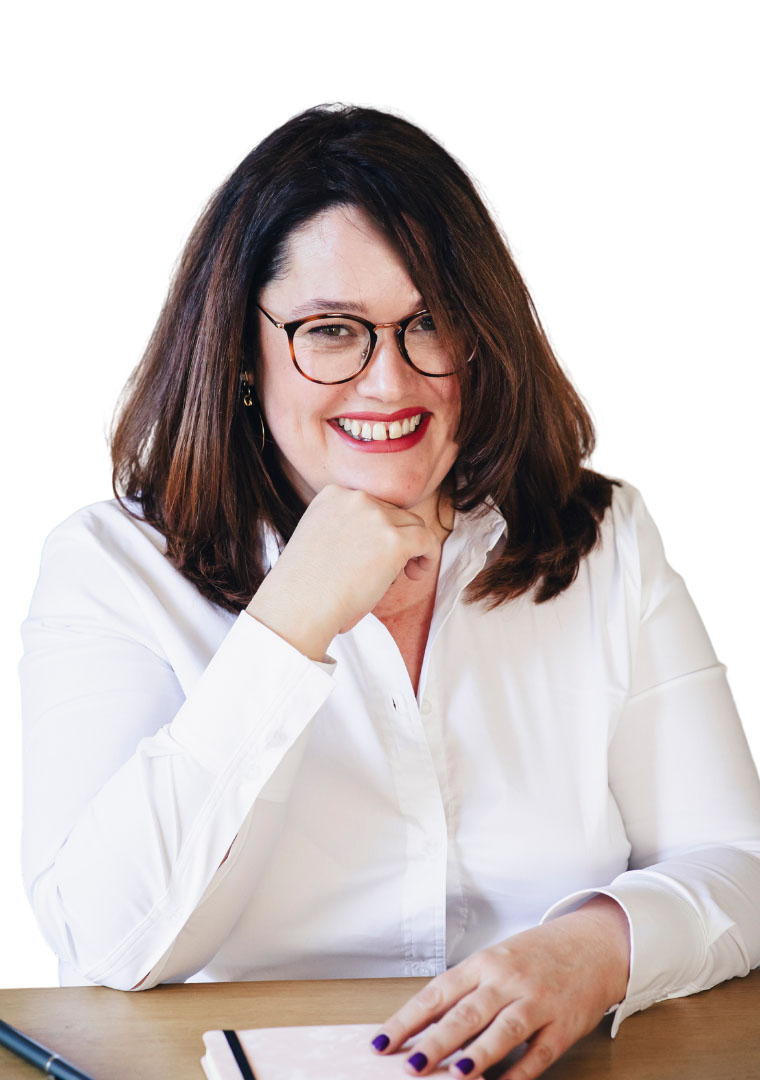
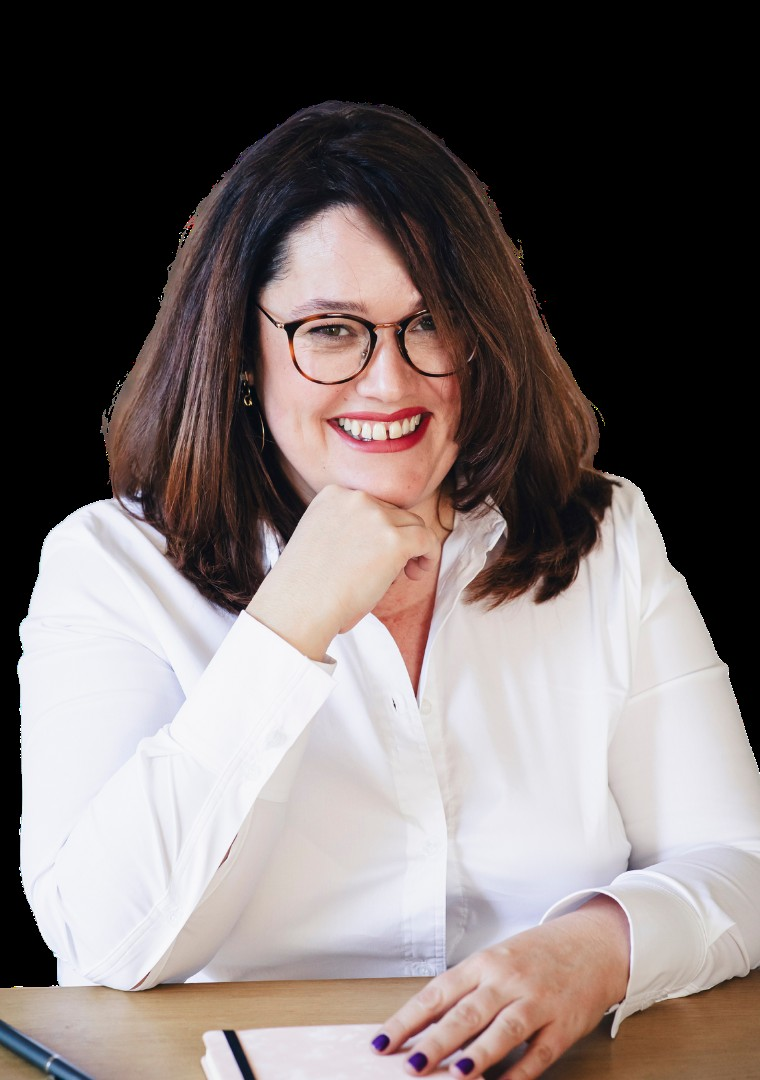
google tag manager

diff --git a/src/pages/Accueil/index.jsx b/src/pages/Accueil/index.jsx
@@ -12,7 +12,7 @@ import Toolbox from '../../components/ToolBox';
 import IconCard from '../../components/IconCard'
 import { faPlay, faBriefcase, faPenRuler, faBuilding  } from "@fortawesome/free-solid-svg-icons";
 import imgBenefit from "../../assets/imgArchitecte.jpg";
-import imgPortrait from '../../assets/imgPortrait.jpg';
+import imgPortrait from '../../assets/imgPortrait.png';
 import ServiceDetail from "../../components/ServiceDetail";
 
 
@@ -113,7 +113,6 @@ function Accueil() {
 
   return (
     <div className='main'>
-      <Maintenance />
       <FreebiePopup />
       <Banner
         pageTitle={pageTitle}
@@ -126,8 +125,10 @@ function Accueil() {
 
       <section className='home__cible'>
         <h2>Vous êtes artisan, entrepreneur ou dirigeant de PME ?</h2>
+        <div className='home__cible-text'>
         <p>Vous gérez un quotidien chargé, souvent dans l’urgence. Et votre site web ne vous aide pas autant qu’il le pourrait.</p>
         <p>Je conçois des sites web et des outils digitaux qui s’adaptent à votre façon de travailler pour vous faire <strong>gagner du temps</strong>, <strong>automatiser les tâches répétitives</strong> et <strong>valoriser votre savoir-faire</strong>.</p>
+        </div>
         <div className="icon-card__container">
           {cards.map((card, idx) => (
             <IconCard
@@ -161,16 +162,17 @@ function Accueil() {
       <ServiceDetail sections={benefitsSection} />
 
       <section className='home'>
-        <img src={imgPortrait} alt="Aurélie DEMETRIO - L'Agence Digitale" />
-        <div className='home__apropos'>
-          <h2>A propos</h2>
-          <p>Je suis développeuse web spécialisée dans le secteur du bâtiment et de l’immobilier, avec 20 ans d'expérience sur le terrain.</p>
-          <p>Mon objectif : créer des sites sur mesure qui <span className='text-color'><strong>mettent en valeur votre expertise, simplifient vos processus, et boostent votre activité.</strong></span></p>
-          <p>Chaque projet est unique, tout comme votre entreprise. J’écoute vos besoins pour concevoir des formulaires, pages de vente, et portfolios personnalisés, qui vous aideront à <span className='text-color'><strong>attirer vos clients idéaux</strong></span> et à faire évoluer votre business.</p>
-          <p>Offrez à votre savoir faire la visibilité qu'il mérite !</p>
-          <Link to="/A-propos/#apropos__anchor"><Button className="button" text="En savoir plus" /></Link>
-        </div>
-      </section>
+  <img src={imgPortrait} alt="Aurélie DEMETRIO - L'Agence Digitale" />
+  <div className='home__apropos'>
+    <h2>À propos</h2>
+    <p>Avant de devenir développeuse web, j’ai passé 20 ans à gérer des entreprises du bâtiment : gestion RH, suivi de chantiers, plannings, matériel, appels d’offres… Je connais vos contraintes et vos priorités de l’intérieur.</p>
+    <p>Aujourd’hui, j’allie cette expérience terrain à mon expertise digitale pour vous accompagner dans votre transformation numérique.</p>
+    <p>Je crée ou transforme votre site en un outil utile qui <span className='text-color'><strong>travaille pour vous</strong></span> : formulaires intelligents, demandes d’intervention, synchronisation avec Google Calendar, pages de vente, automatisation des tâches répétitives…</p>
+    <p>Mon objectif : <span className='text-color'><strong>vous faire gagner du temps, fluidifier votre organisation, et valoriser votre savoir-faire en ligne</strong></span>.</p>
+    <Link to="/A-propos/#apropos__anchor"><Button className="button" text="En savoir plus" /></Link>
+  </div>
+</section>
+
 
       <Gallery projects={projetData} />
 

diff --git a/src/pages/Flyer/index.jsx b/src/pages/Flyer/index.jsx
@@ -6,14 +6,18 @@ import ServiceDetail from "../../components/ServiceDetail";
 import Testimonies from "../../components/Testimonies";
 import Faq from "../../components/Faq";
 import { faPlay, faCircleQuestion } from "@fortawesome/free-solid-svg-icons";
-import imgBenefit from "../../assets/imgArchitecte.jpg";
+import imgArchitect from "../../assets/imgArchitecte.jpg";
+import imgBatiment from "../../assets/imgBatiment.jpg";
+import imgAutomatisation from "../../assets/imgBanner.jpg";
+import imgBenefit2 from "../../assets/img_automatisation_pme.jpg";
+import imgBenefit1 from "../../assets/imgBannerResource.jpeg";
 
 const sectionsFlyer = [
   {
     title: "Pourquoi automatiser votre activité et transformer votre site peut changer votre quotidien",
     subtitle: null,
     icon: faPlay,
-    image: imgBenefit,
+    image: imgBenefit1,
     items: [
       "Gagner du temps",
       "Réduire les tâches répétitives",
@@ -24,7 +28,7 @@ const sectionsFlyer = [
     title: "Solutions concrètes pour optimiser votre activité",
     subtitle: null,
     icon: faPlay,
-    image: imgBenefit,
+    image: imgBenefit2,
     items: [
       "Automatisation – Je relie vos outils métier (agenda, mails, formulaires, CRM…) pour centraliser les demandes, automatiser les tâches répétitives, et gagner un temps précieux.",
       "Connexion de vos outils",
@@ -39,7 +43,7 @@ const casConcretsFlyer = [
     title: "Un formulaire connecté pour les demandes d’intervention",
     subtitle: null,
     icon: faPlay,
-    image: imgBenefit,
+    image: imgBatiment,
     items: [
       "Un artisan gagne plusieurs heures par semaine grâce à un formulaire intégré à son site.",
       "Les demandes arrivent classées et complètes, même quand il est sur chantier ou en dehors des horaires.",
@@ -50,7 +54,7 @@ const casConcretsFlyer = [
     title: "Prise de rendez-vous automatisée pour une architecte",
     subtitle: null,
     icon: faPlay,
-    image: imgBenefit,
+    image: imgArchitect,
     items: [
       "Une architecte propose directement ses créneaux disponibles via son site, connectés à son agenda Google.",
       "Fini les échanges de mails interminables.",
@@ -61,7 +65,7 @@ const casConcretsFlyer = [
     title: "Génération automatique de devis et de dossiers de primes",
     subtitle: null,
     icon: faPlay,
-    image: imgBenefit,
+    image: imgAutomatisation,
     items: [
       "Un installateur de PAC remplit un formulaire simplifié avec son client.",
       "Le devis et le dossier de demande de prime sont générés automatiquement.",
@@ -179,7 +183,7 @@ function Flyer() {
   const pageTitle = "Un site web utile, qui travaille pour vous.";
   const bannerText =
     "Sites web connectés & automatisations pour vous faire gagner du temps, simplifier votre gestion et réduire les tâches répétitives.";
-  const bannerImg = require("../../assets/img_coaching_creation_site_web.jpg");
+  const bannerImg = require("../../assets/imgBanner_blog_aurelie_demetrio_developpeuse_automatisation.jpg");
 
   return (
     <div className="main">
@@ -197,7 +201,7 @@ function Flyer() {
           },
         ]}
       />
-        <div className="pagevente__container">
+        <div className="pagevente__container flyer__intro">
   <h2>Un site web utile, qui travaille pour vous ?</h2>
   <p className="section-text">
     Vous avez découvert mon flyer ? Merci pour votre intérêt !

diff --git a/public/index.html b/public/index.html
@@ -27,15 +27,15 @@
     <!-- FontAwesome (CDN) -->
     <link rel="stylesheet" href="https://use.fontawesome.com/releases/v5.15.4/css/all.css" />
 
-    <!-- Google Analytics -->
-    <script async src="https://www.googletagmanager.com/gtag/js?id=G-J0LEQLYWJ8"></script>
-    <script>
-      window.dataLayer = window.dataLayer || [];
-      function gtag(){dataLayer.push(arguments);}
-      gtag('js', new Date());
-      gtag('config', 'G-J0LEQLYWJ8');
-    </script>
+<!-- Google Tag Manager -->
+<script>(function(w,d,s,l,i){w[l]=w[l]||[];w[l].push({'gtm.start':
+new Date().getTime(),event:'gtm.js'});var f=d.getElementsByTagName(s)[0],
+j=d.createElement(s),dl=l!='dataLayer'?'&l='+l:'';j.async=true;j.src=
+'https://www.googletagmanager.com/gtm.js?id='+i+dl;f.parentNode.insertBefore(j,f);
+})(window,document,'script','dataLayer','GTM-MVQG47SP');</script>
+<!-- End Google Tag Manager -->
 
+    
     <!-- Tally embed -->
     <script async src="https://tally.so/widgets/embed.js"></script>
 
@@ -65,6 +65,12 @@
   </head>
 
   <body>
+<!-- Google Tag Manager (noscript) -->
+<noscript><iframe src="https://www.googletagmanager.com/ns.html?id=GTM-MVQG47SP"
+height="0" width="0" style="display:none;visibility:hidden"></iframe></noscript>
+<!-- End Google Tag Manager (noscript) -->>
+
+
     <div id="root"></div>
   </body>
 </html>

diff --git a/src/styles/pages/_article.scss b/src/styles/pages/_article.scss
@@ -6,7 +6,7 @@
   flex-direction: column;
   h3{
     margin: 0 0 20px 0;
-    color: $black;
+    color: $pink;
     font-size: 18px;
   }
   p{
@@ -32,6 +32,12 @@
 .wp-block-heading{
   color: $black;
   justify-content: flex-start;
+    font-size: 1.8rem;
+  margin: 20px 0 50px 50px;
+
+  @include mobile{
+    font-size: 1.5rem;
+  }
 }
 
 .wp-block-list{
@@ -75,15 +81,7 @@
     opacity: 0.8;
   }
 }
-.wp-block-heading {
-  font-size: 1.8rem;
-  margin-bottom: 2rem;
-  color: $darkgreen;
 
-  @include mobile{
-    font-size: 1.5rem;
-  }
-}
 .wp-block-video {
   video {
     //width: 100%;
@@ -153,6 +151,9 @@
   border-radius: 8px;
   margin: 2rem 0;
   text-align: center;
+  display: flex;
+  flex-direction: column;
+  align-items: center;
 
   &-title{
     color: $darkviolet;
@@ -173,7 +174,7 @@
     text-decoration: none;
     font-weight: bold;
     transition: background-color 0.3s ease;
-    width: 80%;
+    width: 200px;
   display: flex;
   }
 

diff --git a/src/styles/pages/_accueil.scss b/src/styles/pages/_accueil.scss
@@ -63,6 +63,7 @@
     }
     img{
         height: 500px;
+        margin: 20px;
         //position: relative;
         //bottom: 100px;
 
@@ -107,7 +108,7 @@
         }
 
         @include mobile {
-            margin: 0 10px;
+            margin: 0 0 30px 0;
             //position: relative;
             //bottom: 100px;
         }
@@ -258,6 +259,10 @@
     margin-top: 200px;
     color: $white;
 
+    @include mobile{
+        margin-top: 250px;
+    }
+
     h2{
         color: $white;
     }
@@ -274,16 +279,23 @@
     }
 
     p{
-        margin: 0 0 50px 0;
+        margin: 30px 0 50px 0;
     }
 
     h2{
         color: $white;
+        text-align: left;
     }
 }
 
 .offre{
     &__artisan{
         display: flex;
+
+        @include mobile{
+            flex-direction: column;
+            align-items: center;
+
+        }
     }
 }

diff --git a/src/styles/utils/_variables.scss b/src/styles/utils/_variables.scss
@@ -35,9 +35,9 @@ $linearGradient3: linear-gradient(to bottom right, darken($pink, 5), lighten($da
 $linearGradient4: linear-gradient(to bottom right, lighten($darkgreen, 5), darken($black, 5));
 $linearGradient5: linear-gradient(
   to bottom right,
-  darken($green, 5) 0%,
-  $green 20%,
-  $black 60%,
+  darken($black, 5) 0%,
+  $black 20%,
+  $green 60%,
   darken($black, 5) 100%
 );
 $linearGradient6: linear-gradient(

diff --git a/src/styles/components/_calendly_booking.scss b/src/styles/components/_calendly_booking.scss
@@ -14,10 +14,12 @@
     @include tablet {
         width: 300px;
         height: 350px;
+        
     }
 
     @include mobile{
         width: 90%;
+        margin-top: 50px
     }
 
     span{
@@ -30,7 +32,7 @@
         width: 80px;
         height: 80px;
         background: $green;
-        color: $darkviolet;
+        color: $white;
         font-size: 36px;
     }
 

diff --git a/src/styles/pages/_prestations.scss b/src/styles/pages/_prestations.scss
@@ -256,6 +256,10 @@
     @include tablet{
         font-size: 24px;
     }
+
+    @include mobile{
+        font-size: 20px;
+    }
 }
 
 /*.services-autre{

diff --git a/src/styles/components/_process.scss b/src/styles/components/_process.scss
@@ -37,6 +37,7 @@
       background: $black;
       color: $white;
       border-radius: 5px;
+      padding: 10px;
       
 
       @include mobile{

diff --git a/src/styles/components/_service_detail.scss b/src/styles/components/_service_detail.scss
@@ -11,7 +11,7 @@
   
   .service-detail__image img {
     width: 100%;
-    height: auto;
+    height: 100%;
     border-radius: 8px;
   }
   

diff --git a/src/styles/pages/_flyer.scss b/src/styles/pages/_flyer.scss
@@ -1,7 +1,7 @@
 .flyer__intro{
 
     @include mobile{
-    margin-top: 250px;
+    margin-top: 150px;
     }
 
     li{
